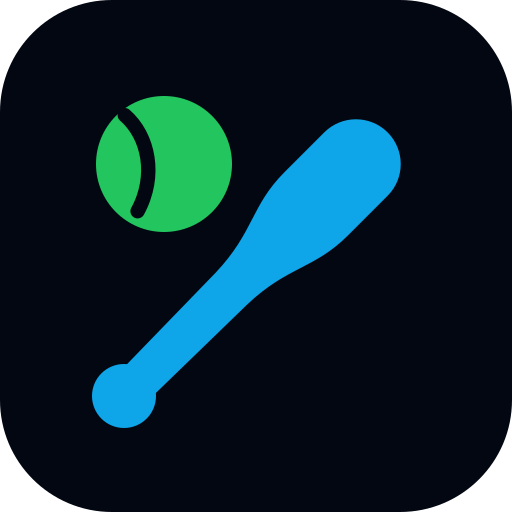
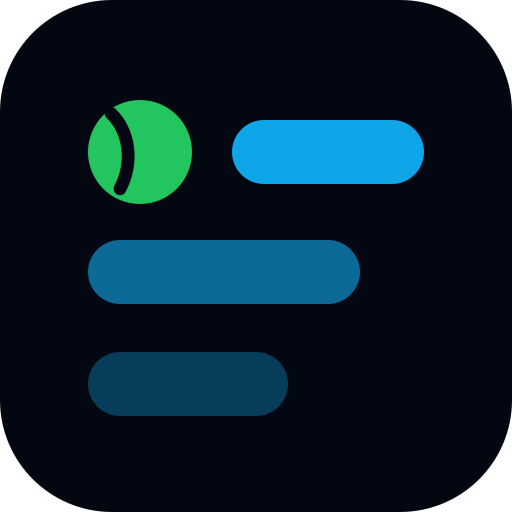
Rename the product to Hitlist, with a new mark (#10)
"MLB BvP Betting" described the data and said nothing about the product.
It is a ranked list of the day's best hit matchups, so it is now
Hitlist. The mark is a ball leading three ranked bars, in the app's own
sky and green.

- Site name, page titles, structured data, disclaimer and share image
- Favicon, Apple touch icon and an SVG master; the mark sits beside the
  page title and replaces the emoji in the share image
- The repo and the live URL keep the bvp-betting name

Changed region(s): [[0.1562, 0.1875, 0.8438, 0.8438]]

diff --git a/app/disclaimer/page.tsx b/app/disclaimer/page.tsx
@@ -2,15 +2,15 @@ import Link from 'next/link'
 import type { Metadata } from 'next'
 
 export const metadata: Metadata = {
-  title: 'Disclaimer | MLB BvP',
-  description: 'Terms of use and disclaimer for MLB BvP.',
+  title: 'Disclaimer | Hitlist',
+  description: 'Terms of use and disclaimer for Hitlist.',
 }
 
 export default function DisclaimerPage() {
   return (
     <main className="max-w-3xl mx-auto px-4 py-10 text-gray-300 text-sm leading-7">
       <Link href="/" className="text-sky-400 hover:text-sky-300 transition-colors text-xs">
-        &larr; Back to MLB BvP
+        &larr; Back to Hitlist
       </Link>
 
       <h1 className="text-2xl font-bold text-white mt-6 mb-8">Disclaimer &amp; Terms of Use</h1>
@@ -19,7 +19,7 @@ export default function DisclaimerPage() {
         <section>
           <h2 className="text-base font-semibold text-white mb-2">For Informational Purposes Only</h2>
           <p>
-            MLB BvP provides historical career batter vs pitcher statistics sourced from the official MLB Stats API.
+            Hitlist provides historical career batter vs pitcher statistics sourced from the official MLB Stats API.
             All content is provided strictly for informational and entertainment purposes. Nothing on this site
             constitutes financial advice, gambling advice, or a recommendation to place any wager.
           </p>
@@ -58,7 +58,7 @@ export default function DisclaimerPage() {
         <section>
           <h2 className="text-base font-semibold text-white mb-2">Intellectual Property</h2>
           <p>
-            MLB team names, logos, and statistical data are the property of their respective owners. MLB BvP is
+            MLB team names, logos, and statistical data are the property of their respective owners. Hitlist is
             an independent tool and is not affiliated with, endorsed by, or sponsored by Major League Baseball
             or any of its teams.
           </p>

diff --git a/app/opengraph-image.tsx b/app/opengraph-image.tsx
@@ -1,7 +1,7 @@
 import { ImageResponse } from 'next/og'
 
 export const runtime = 'edge'
-export const alt = 'MLB BvP Betting: Daily Hit Prop Picks'
+export const alt = 'Hitlist: Daily MLB Hit Prop Picks'
 export const size = { width: 1200, height: 630 }
 export const contentType = 'image/png'
 
@@ -35,21 +35,13 @@ export default function Image() {
 
         {/* Icon + title row */}
         <div style={{ display: 'flex', alignItems: 'center', gap: 28, marginBottom: 28 }}>
-          <div
-            style={{
-              display: 'flex',
-              alignItems: 'center',
-              justifyContent: 'center',
-              width: 96,
-              height: 96,
-              borderRadius: 999,
-              background: '#0f172a',
-              border: '2px solid #1e3a5f',
-              fontSize: 52,
-            }}
-          >
-            ⚾
-          </div>
+          <svg width="96" height="96" viewBox="0 0 64 64">
+            <rect width="64" height="64" rx="14" fill="#0f172a" />
+            <circle cx="17.5" cy="19" r="6.5" fill="#22c55e" />
+            <rect x="29" y="15" width="24" height="8" rx="4" fill="#0ea5e9" />
+            <rect x="11" y="30" width="34" height="8" rx="4" fill="#0ea5e9" opacity="0.62" />
+            <rect x="11" y="44" width="25" height="8" rx="4" fill="#0ea5e9" opacity="0.34" />
+          </svg>
           <div style={{ display: 'flex', flexDirection: 'column', gap: 8 }}>
             <div
               style={{
@@ -60,7 +52,7 @@ export default function Image() {
                 display: 'flex',
               }}
             >
-              MLB BvP Betting
+              Hitlist
             </div>
             <div
               style={{

diff --git a/app/page.tsx b/app/page.tsx
@@ -18,7 +18,7 @@ const structuredData = [
   {
     '@context': 'https://schema.org',
     '@type': 'WebSite',
-    name: 'MLB BvP Betting',
+    name: 'Hitlist',
     url: siteUrl,
     description:
       'Daily MLB batter versus pitcher stats and BVP betting board for hit props, ranked by career matchup data.',
@@ -32,7 +32,7 @@ const structuredData = [
       'Daily batter versus pitcher stats, BVP betting angles, and MLB hit props ranked by career batting average weighted by sample size.',
     isPartOf: {
       '@type': 'WebSite',
-      name: 'MLB BvP Betting',
+      name: 'Hitlist',
       url: siteUrl,
     },
     about: [
@@ -53,7 +53,11 @@ export default function Home() {
       />
 
       <header className="mb-6">
-        <h1 className="text-2xl font-bold text-white tracking-tight">MLB BvP Betting</h1>
+        <h1 className="flex items-center gap-2.5 text-2xl font-bold text-white tracking-tight">
+          {/* eslint-disable-next-line @next/next/no-img-element -- a 28px inline mark; the optimizer adds nothing */}
+          <img src="/hitlist-mark.svg" alt="" width={28} height={28} className="h-7 w-7" />
+          Hitlist
+        </h1>
         <p className="text-gray-400 text-sm mt-1 max-w-full text-balance">
           Daily <span className="text-white font-semibold">batter versus pitcher stats</span> for the <span className="text-white font-semibold">Player to Record a Hit</span> prop (1+ hits / over 0.5 hits).
           Matchups are ranked by career BvP batting average weighted by sample size so the board stays focused on the strongest historical hit matchups.

diff --git a/app/layout.tsx b/app/layout.tsx
@@ -11,8 +11,8 @@ const SITE_URL = getSiteUrl()
 export const metadata: Metadata = {
   metadataBase: new URL(SITE_URL),
   title: {
-    default: 'MLB BvP Betting | Batter vs Pitcher Stats for MLB Hit Props',
-    template: '%s | MLB BvP Betting',
+    default: 'Hitlist | Batter vs Pitcher Stats for MLB Hit Props',
+    template: '%s | Hitlist',
   },
   description:
     'Daily MLB batter versus pitcher stats for hit props and BvP betting. Track career BVP stats, MLB hit props, and Top 4 batter vs pitcher matchups ranked by batting average weighted by sample size.',
@@ -43,7 +43,7 @@ export const metadata: Metadata = {
   },
   category: 'sports',
   openGraph: {
-    title: 'MLB BvP Betting: Batter vs Pitcher Stats for MLB Hit Props',
+    title: 'Hitlist: Batter vs Pitcher Stats for MLB Hit Props',
     description:
       'Daily MLB batter versus pitcher stats, BvP betting angles, and hit prop picks ranked by career batting average and sample size.',
     type: 'website',
@@ -53,7 +53,7 @@ export const metadata: Metadata = {
   },
   twitter: {
     card: 'summary_large_image',
-    title: 'MLB BvP Betting: Batter vs Pitcher Stats for MLB Hit Props',
+    title: 'Hitlist: Batter vs Pitcher Stats for MLB Hit Props',
     description:
       'Daily MLB batter versus pitcher stats, BvP betting angles, and hit prop picks ranked by career batting average and sample size.',
     images: ['/opengraph-image'],

diff --git a/app/scoring-logic/page.tsx b/app/scoring-logic/page.tsx
@@ -5,7 +5,7 @@ import ScoringLogicContent from '@/app/components/ScoringLogicContent'
 export const metadata: Metadata = {
   title: 'BvP Scoring Guide for MLB Hit Props',
   description:
-    'See how MLB BvP Betting ranks batter versus pitcher stats, calculates hit probability, and selects Daily Double, Secondary Double, and Smash Double cards.',
+    'See how Hitlist ranks batter versus pitcher stats, calculates hit probability, and selects Daily Double, Secondary Double, and Smash Double cards.',
   alternates: {
     canonical: '/scoring-logic',
   },

diff --git a/lib/site.ts b/lib/site.ts
@@ -13,4 +13,4 @@ export function getSiteUrl(): string {
   return stripTrailingSlash(rawUrl)
 }
 
-export const SITE_NAME = 'MLB BvP Betting'
+export const SITE_NAME = 'Hitlist'

diff --git a/README.md b/README.md
@@ -1,4 +1,6 @@
-# MLB BvP
+# Hitlist
+
+Formerly MLB BvP. A ranked list of today's best batter versus pitcher hit matchups.
 
 Built for the **Player Hits (1+)** prop and similar 1+ hit markets. Any single, double, triple, or homer wins. This tool surfaces today's best historical matchups ranked by **career BvP batting average**, weighted by sample size for reliability.
 

diff --git a/CLAUDE.md b/CLAUDE.md
@@ -1,4 +1,6 @@
-# MLB BvP
+# Hitlist
+
+The product is named Hitlist (renamed from MLB BvP on 2026-11-11). The repo and the live URL keep the old `bvp-betting` name.
 
 Next.js 16 / React 19 app. App Router only (no pages router). Tailwind v4 (no config file; `@import "tailwindcss"` in CSS).
 
